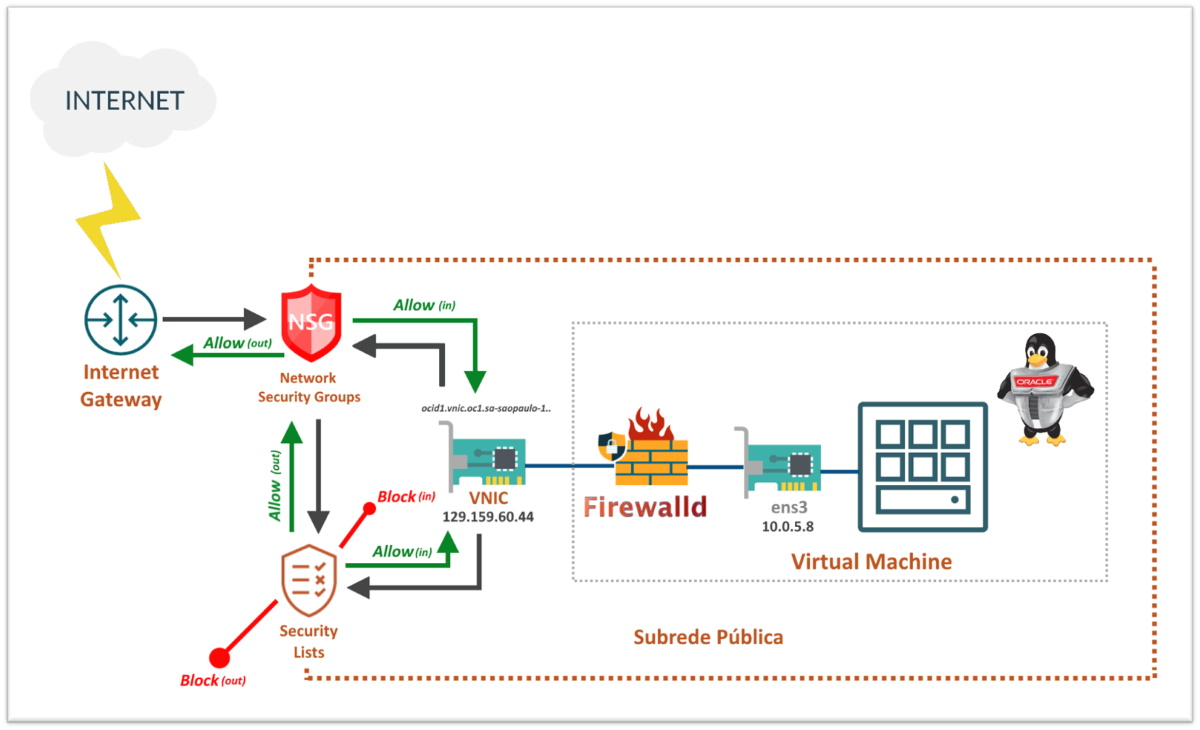
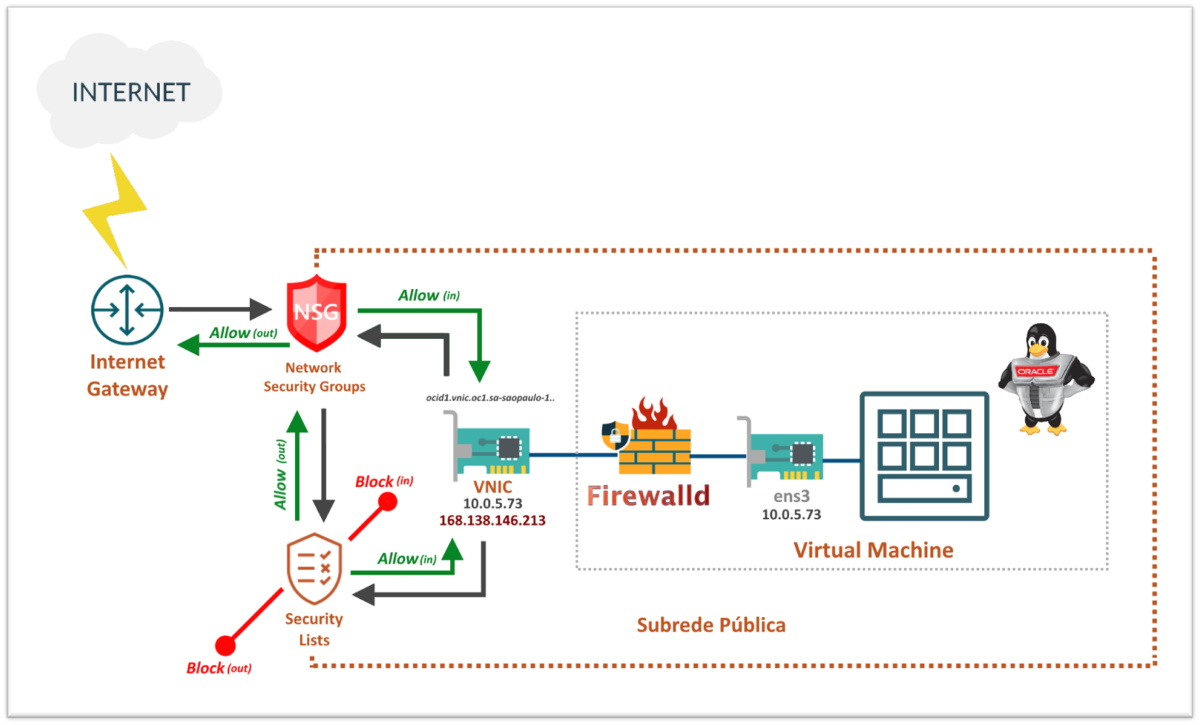
Writing about Oracle Linux and Wordpress.

diff --git a/chapter-4/4-4_oracle-linux-wordpress.md b/chapter-4/4-4_oracle-linux-wordpress.md
@@ -29,7 +29,9 @@ Porém, vou destacar pontos importantes. Começando por suas vantagens de utiliz
 
 >_**__NOTA:__** O documento que descreve todas essas vantagens e outras em mais detalhes, pode ser consultado neste [link aqui](https://www.oracle.com/a/ocom/docs/linux-for-cloud-infrastructure-4024517.pdf)._
 
-Vamos seguir agora para o entendimento sobre os **firewalls** que temos até que o tráfego chegue em uma instância de computação. Por um momento, vamos tomar outro exemplo. Imagine que criamos uma nova instância temporária em nossa subrede pública (10.0.5.0/24), também com _[Oracle Linux](https://www.oracle.com/linux/)_. Esta instância, além do seu endereço IP privado 10.0.5.73, atribuímos um IP público 168.138.146.213.
+Vamos seguir agora para o entendimento sobre os **firewalls** que temos até que o tráfego chegue em uma instância de computação. Por um momento, vamos tomar outro exemplo.
+
+Imagine que criamos uma nova instância temporária em nossa subrede pública (10.0.5.0/24), também com _[Oracle Linux](https://www.oracle.com/linux/)_. Esta instância, além do seu endereço IP privado 10.0.5.73, atribuímos um IP público 168.138.146.213.
 
 Veja abaixo a representação desta instância:
 
